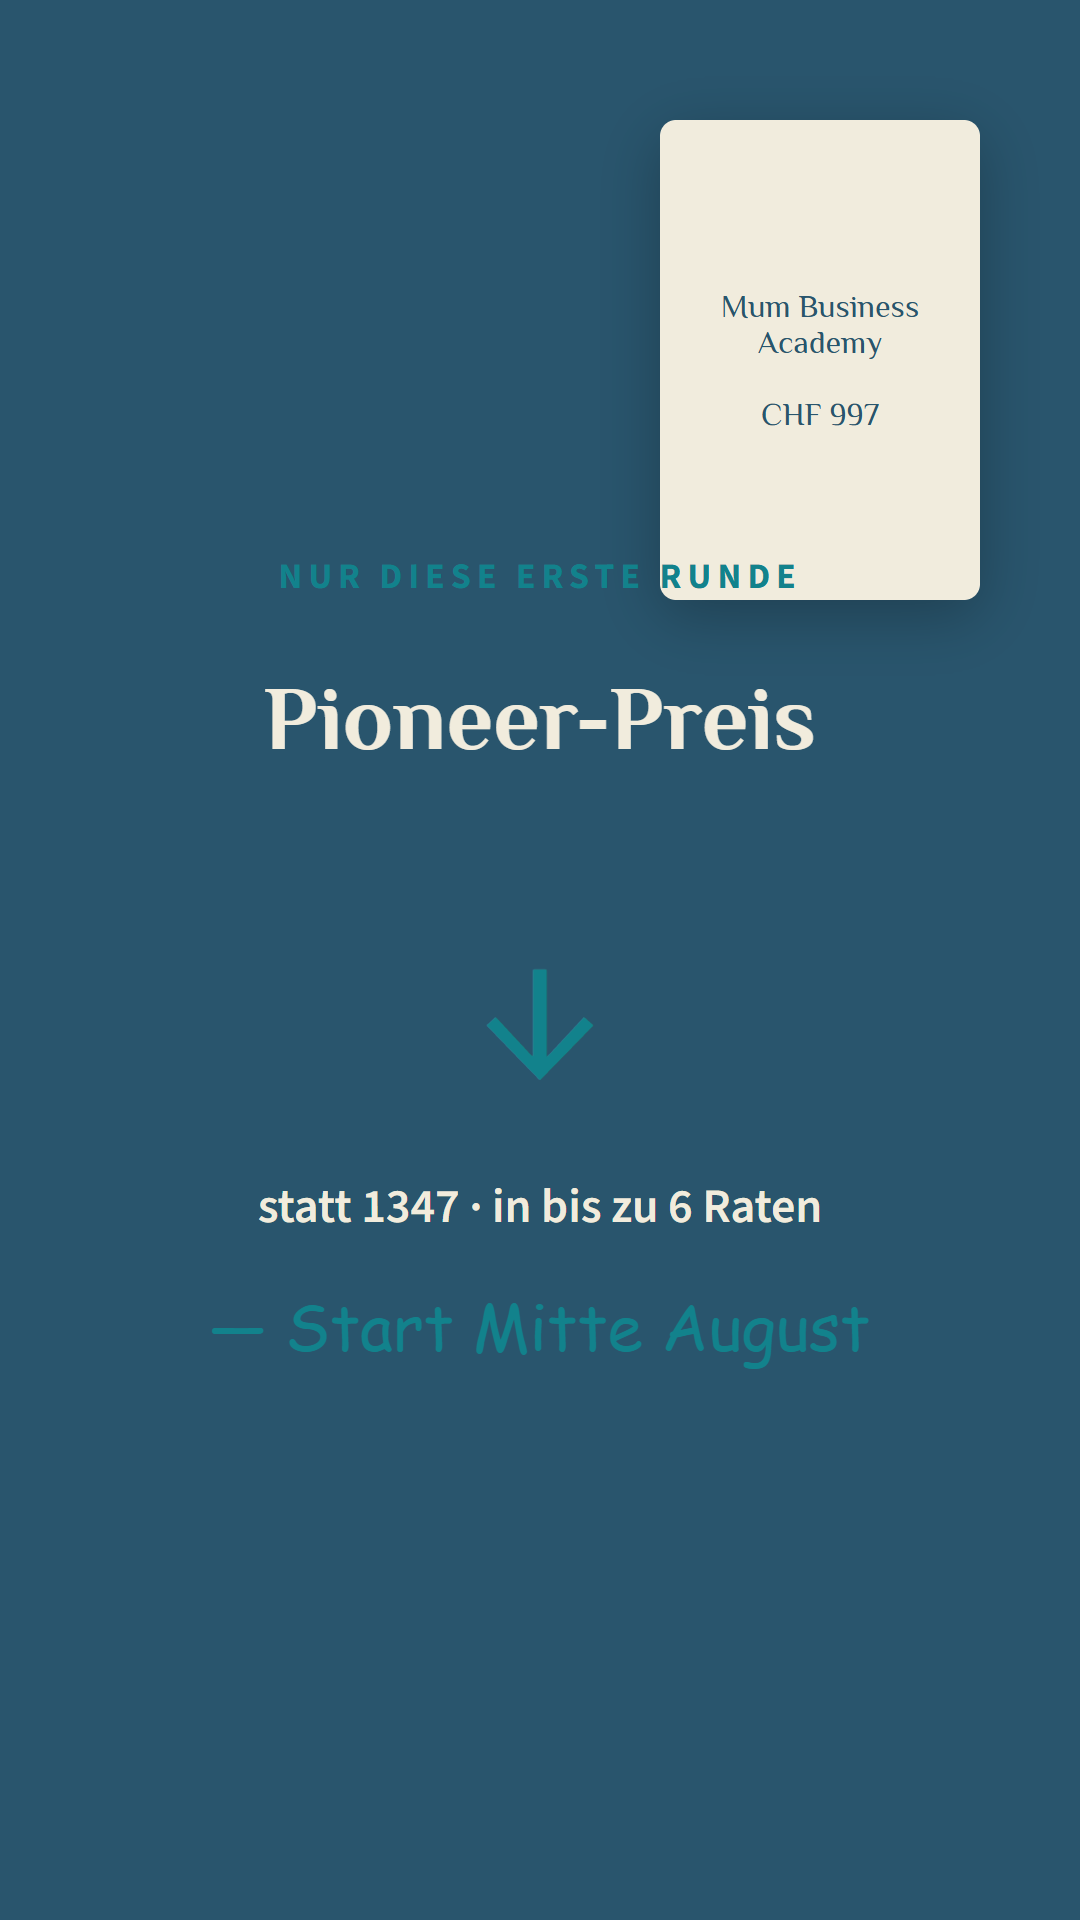
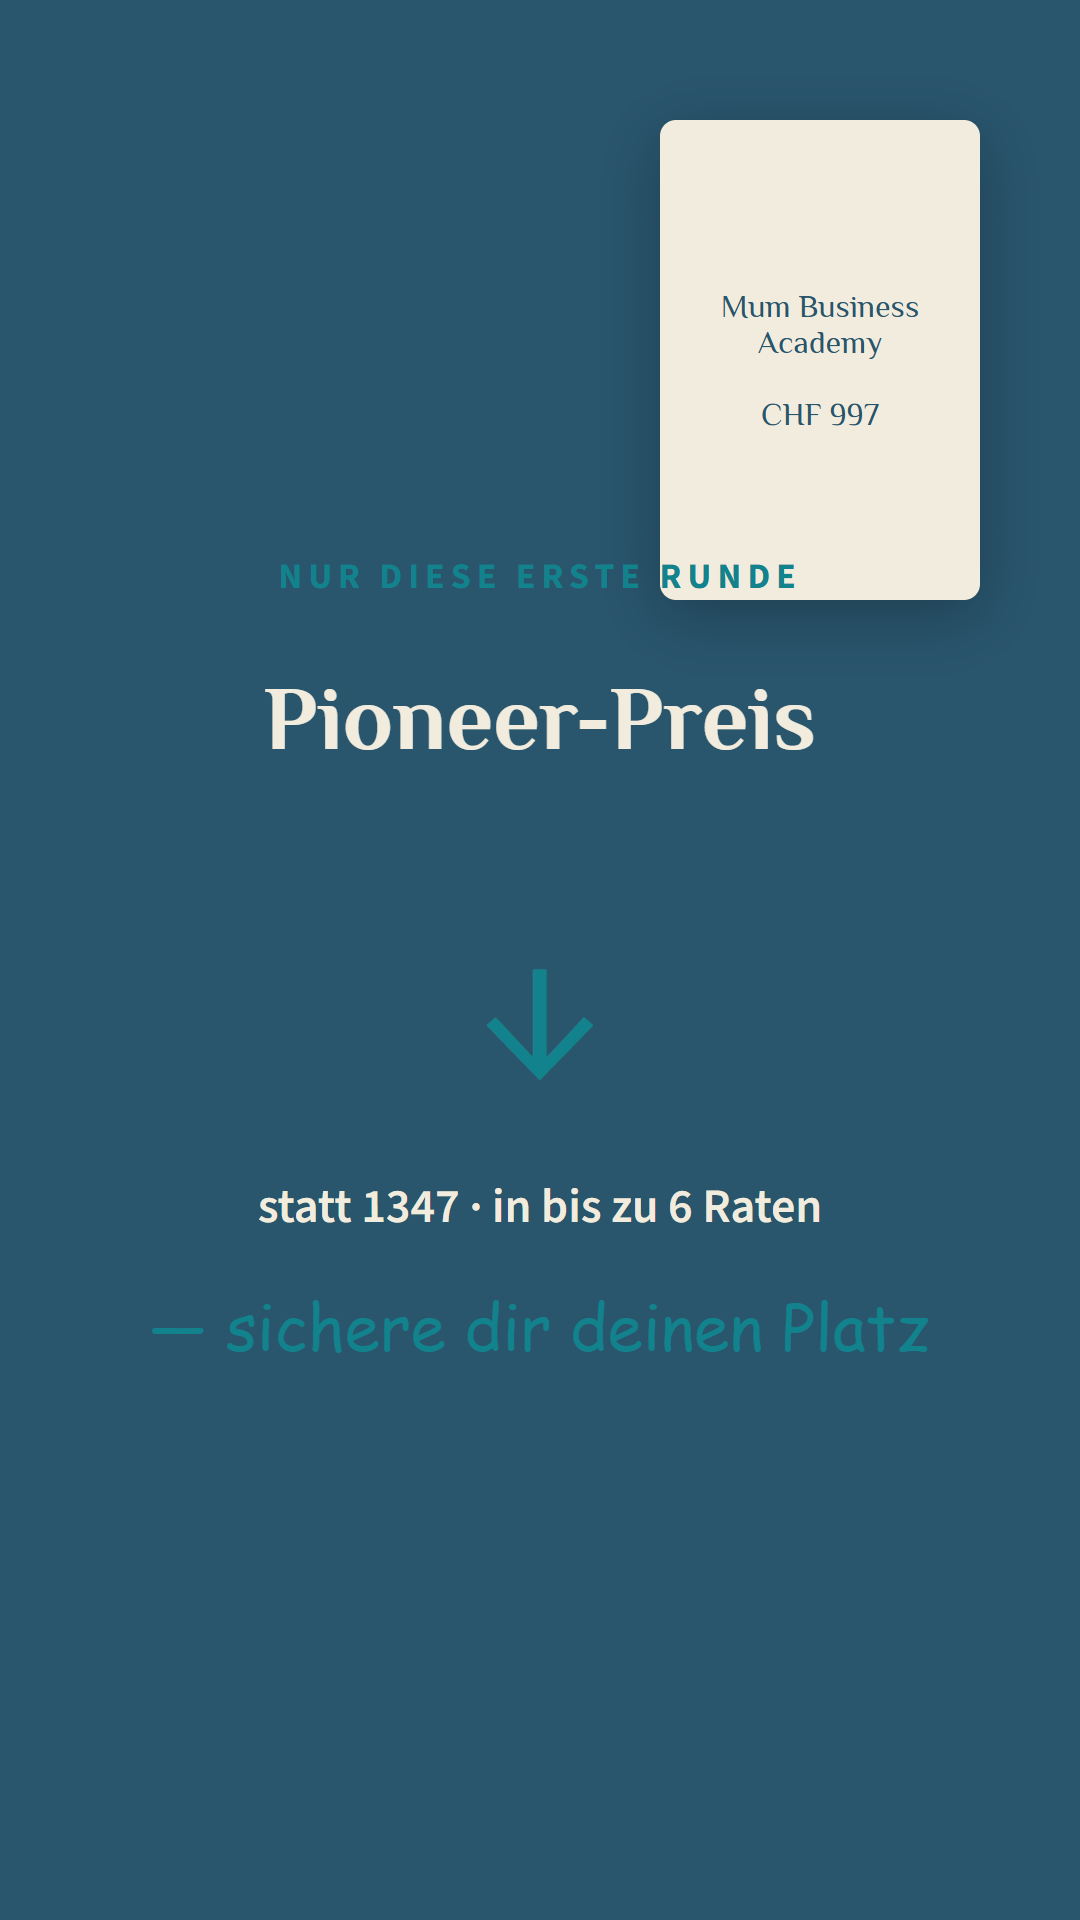
auto-sync: 2026-07-04 11:28 (6 files)

Changed region(s): [[0.2139, 0.6562, 0.5806, 0.7188], [0.6111, 0.6562, 0.8556, 0.7188]]

diff --git a/outputs/stories/2026-07-03-mba-pitch/slides.html b/outputs/stories/2026-07-03-mba-pitch/slides.html
@@ -143,15 +143,17 @@
   <!-- SLIDE 7: CTA / URGENCY (Countdown-Template) -->
   <div class="stage-wrap">
     <div class="stage">
-      <div class="slide template-countdown">
+      <div class="slide template-story">
+        <div class="overlay" style="background: rgba(241, 236, 221, 0.92);"></div>
         <div class="content">
-          <div class="countdown-eyebrow">Türen offen bis</div>
-          <div class="countdown-number">9.</div>
-          <div class="countdown-unit">Juli</div>
-          <div class="countdown-message">
-            Sichere dir deinen Pioneer-Platz
+          <div class="label">So geht's los</div>
+          <div class="body">
+            Wir starten Mitte August, nach den Sommerferien.
+            <br><br>
+            Zugang zu den Kursen bekommst du aber <strong>schon jetzt</strong> — damit du dich in Ruhe einlesen und einarbeiten kannst.
+            <br><br>
+            → Tipp auf den Link in der Story.
           </div>
-          <div class="countdown-cta">— Link in der Story antippen</div>
         </div>
         <div class="brand-corner">Mum Life Balance</div>
       </div>

diff --git a/outputs/produkte/mba-launch/mba-pitch-stories.md b/outputs/produkte/mba-launch/mba-pitch-stories.md
@@ -94,12 +94,12 @@ tags: [content, story, mba, launch]
 
 ---
 
-## SLIDE 7 — CTA
-*(IKM-CTA-Slide — Foto von dir + klarer Call-to-Action + Link-Sticker)*
+## SLIDE 7 — CTA / So geht's los
+*(Creme-Story-Slide + Link-Sticker · KEIN Deadline-Druck)*
 
-**Headline:** Willst du dabei sein?
+**Label:** So geht's los
 
-**Text:** Tipp auf den Link und sichere dir deinen Pioneer-Platz. Wenn du Fragen hast, schreib mir einfach hier in die DM — ich antworte dir persönlich.
+**Text:** Wir starten Mitte August, nach den Sommerferien. Zugang zu den Kursen bekommst du aber **schon jetzt** — damit du dich in Ruhe einlesen und einarbeiten kannst. → Tipp auf den Link in der Story.
 
 **Sticker:** Link-Sticker → deine Salespage (`mumlifebalance.thrivecart.com/mba`)
 *(zusätzlich: „Fragen? → schreib mir" antworten-Sticker)*

diff --git a/outputs/stories/2026-07-03-mba-pitch/briefing.md b/outputs/stories/2026-07-03-mba-pitch/briefing.md
@@ -18,7 +18,7 @@ tags: [content, story, mba, launch]
 4. **Details** — „Das steckt drin" (PIA · IKM · Mama-CEO · Digitale Produktwelt · Begleitung)
 5. **Proof** — Kunden-Zitat + „50.000 Aufrufe · +77 Followerinnen"
 6. **Preis** — Pioneer-Preis CHF 997 (statt 1347 · in Raten)
-7. **CTA** — „Türen offen bis 9. Juli" + Link-Aufruf
+7. **CTA** — „So geht's los": Start Mitte August (nach den Sommerferien), Zugang zu den Kursen schon jetzt + Link-Aufruf
 
 ## In der Instagram-App noch drauf (interaktiv):
 - **Slide 1:** Umfrage-Sticker „Kennst du das?" (Ja/Nein)
